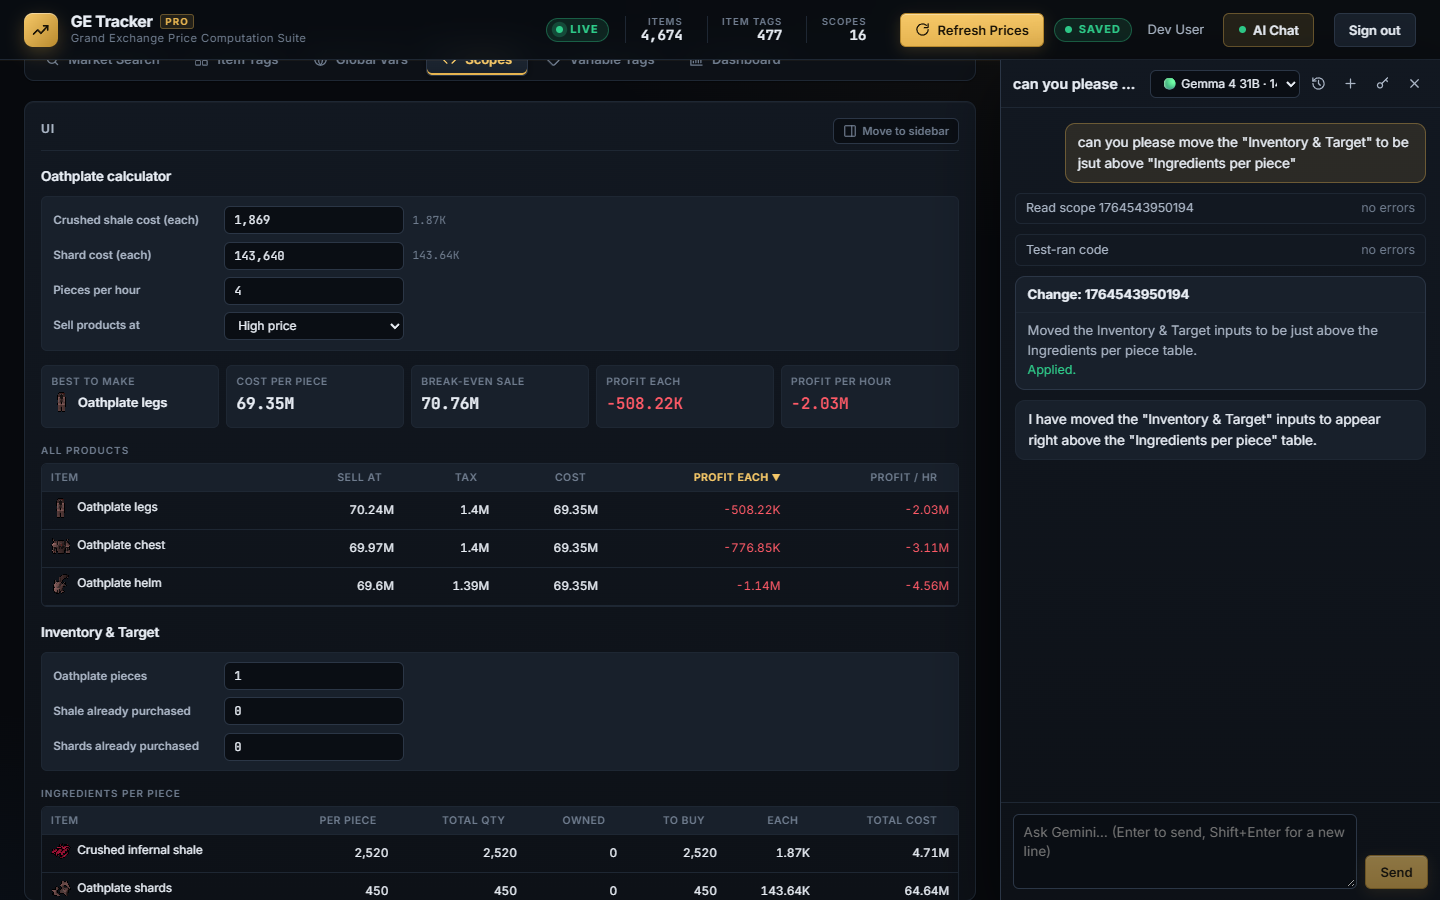
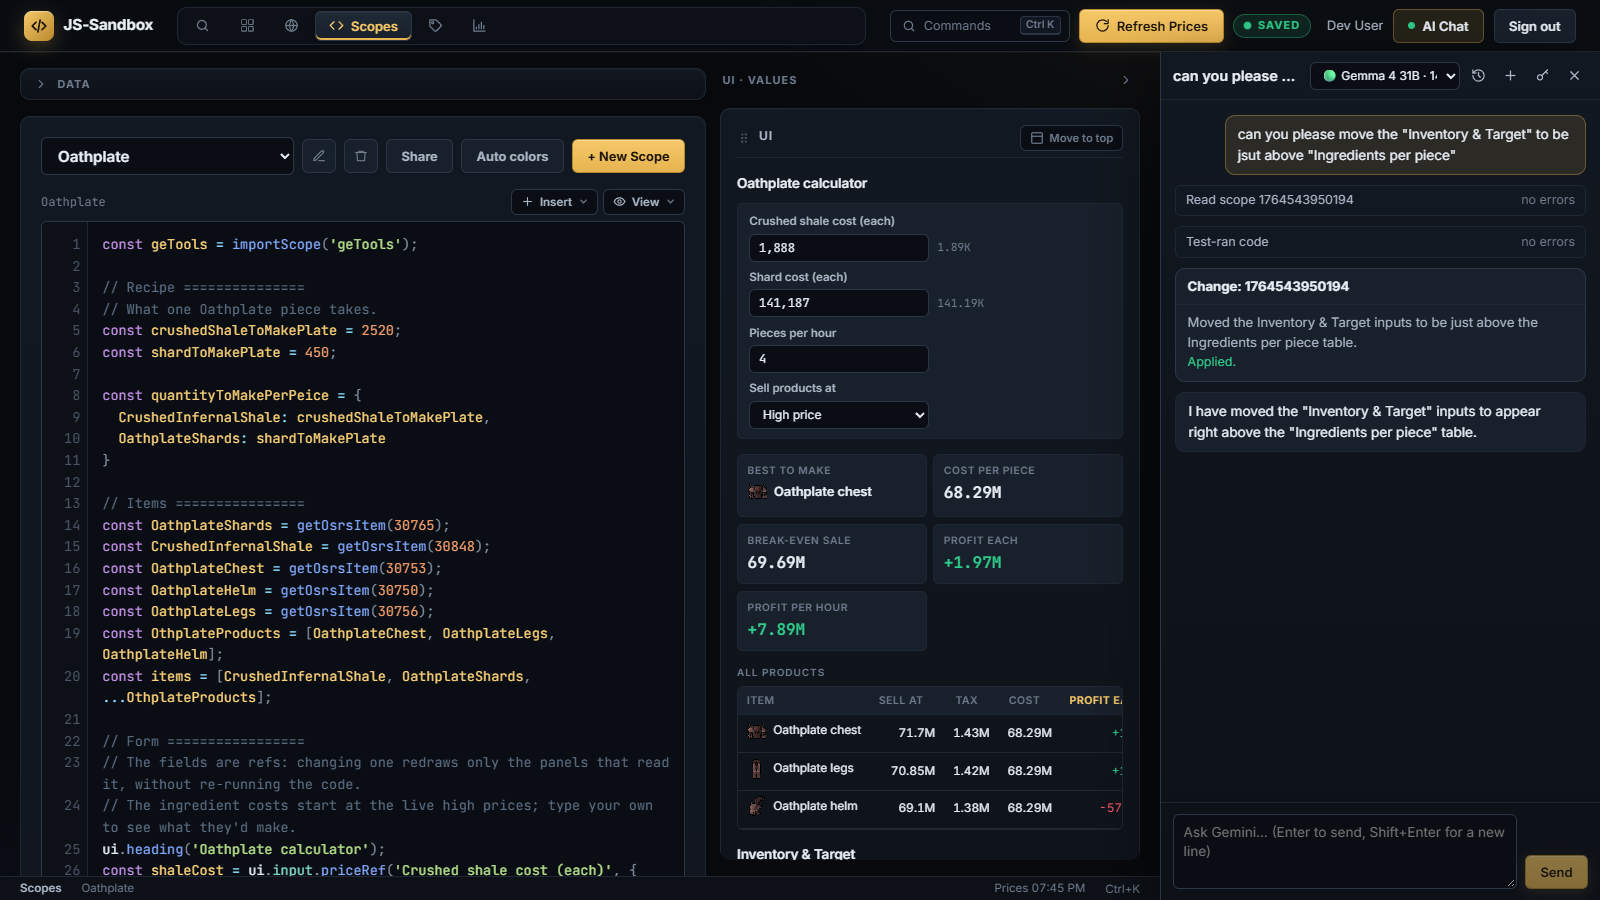
docs

diff --git a/public/css/styles.css b/public/css/styles.css
@@ -1244,10 +1244,13 @@ kbd {
 /* Wide screens: the data explorer (Scopes only), the editor and the sidebar side by side, with a
    draggable splitter between each pair; the UI section can take a full-width band on top. The
    pane widths come from workbenchStyle and are capped so the editor always keeps some room.
-   Rows have no gap, so an empty top band takes no space; the band gets its own margin instead. */
+   Rows have no gap, so an empty top band takes no space; the band gets its own margin instead.
+   The layout follows the work area's width (a container query on .main-layout), not the
+   window's, so opening the AI chat drawer narrows it too. */
+.main-layout { container: workarea / inline-size; }
 .code-tab-layout {
-    --explorer-col: min(var(--explorer-w, 400px), 30vw);
-    --side-col: min(var(--side-w, 420px), 42vw);
+    --explorer-col: min(var(--explorer-w, 400px), 30cqi);
+    --side-col: min(var(--side-w, 420px), 42cqi);
     display: grid;
     grid-template-columns: minmax(0, 1fr) 14px var(--side-col);
     grid-template-areas:
@@ -2694,8 +2697,8 @@ body.is-dragging-ui, body.is-dragging-ui * { cursor: grabbing !important; user-s
 /* ==========================================================================
    Responsive
    ========================================================================== */
-/* Medium screens: the data explorer moves above the editor, beside the sidebar. */
-@media (max-width: 1500px) {
+/* A medium work area: the data explorer moves above the editor, beside the sidebar. */
+@container workarea (max-width: 1460px) {
     .code-tab-layout.has-explorer {
         grid-template-columns: minmax(0, 1fr) 14px var(--side-col);
         grid-template-areas:
@@ -2713,7 +2716,8 @@ body.is-dragging-ui, body.is-dragging-ui * { cursor: grabbing !important; user-s
     .tab-label { display: none; }
     .tab-btn.active .tab-label { display: inline; }
 }
-@media (max-width: 1100px) {
+/* A narrow work area: every pane stacked. */
+@container workarea (max-width: 1060px) {
     .market-layout { grid-template-columns: minmax(0, 1fr); }
     .code-tab-layout, .code-tab-layout.has-explorer {
         grid-template-columns: minmax(0, 1fr);
@@ -2724,6 +2728,8 @@ body.is-dragging-ui, body.is-dragging-ui * { cursor: grabbing !important; user-s
     .code-sidebar { margin-top: 1rem; }
     .code-sidebar .pane-rail { flex-direction: row; min-height: 0; padding: 0.5rem 0.8rem; }
     .code-sidebar .pane-rail-label { writing-mode: horizontal-tb; }
+}
+@media (max-width: 1100px) {
     .palette-btn-label, .palette-btn kbd, .refresh-label { display: none; }
 }
 @media (max-width: 900px) {

diff --git a/docs/README.md b/docs/README.md
@@ -8,24 +8,35 @@ app.
 `images/` holds the screenshots the README shows. They are all of the dev user's **Oathplate**
 scope, a calculator for the profit on making Oathplate armour.
 
+### `images/workbench.png`
+
+The Scopes tab's workbench: the Data panel, the editor with the caret on a variable (its
+occurrences marked and the occurrence bar at the bottom), and the sidebar with the UI section
+docked above Values.
+
+![The Scopes tab: Data panel, code editor and sidebar](images/workbench.png)
+
 ### `images/ui-panel.png`
 
-The scope's UI panel: a form, stat tiles and tables built by the scope's code.
+The scope's UI panel docked full width above the editor: a form, stat tiles and tables built by
+the scope's code.
 
 ![The Oathplate scope's UI panel](images/ui-panel.png)
 
 ### `images/code-editor.png`
 
-The scope's code in the editor.
+The scope's code in the editor, with the caret on `shaleCost`: its occurrences are marked and
+the occurrence bar shows its value and steps through them.
 
 ![The Oathplate scope's code in the editor](images/code-editor.png)
 
 ### `images/ai-chat.png`
 
-The AI chat drawer after it changed the scope.
+The AI chat drawer after it changed the scope, with the Data panel collapsed.
 
 ![The AI chat drawer after changing the Oathplate scope](images/ai-chat.png)
 
 To retake them, start the app in dev mode with `DEV_LOGIN=true`, sign in at
 `http://localhost:3000/auth/dev`, open the Oathplate scope on the Scopes tab, and capture at a
-1440×900 window.
+1600×900 window. That's wide enough for the Data panel, editor and sidebar to sit side by side;
+narrower windows stack the Data panel above the editor.

diff --git a/README.md b/README.md
@@ -8,6 +8,15 @@ they follow them across devices. A scope can be shared read-only by link.
 
 The screenshots below are all of one scope: an Oathplate armour profit calculator.
 
+### Workbench
+
+The Scopes tab is a work area: a Data panel for finding items, the code editor, and a sidebar
+with the scope's UI and values. Panels resize by dragging the splitters between them and
+collapse to a rail (Ctrl+B / Ctrl+Alt+B), and the UI section is dragged by its header to dock it
+full width above the editor or in the sidebar. Ctrl+K opens a command palette.
+
+![The Scopes tab: Data panel, code editor and sidebar](docs/images/workbench.png)
+
 ### Scope UI
 
 A scope's code can build its own UI: forms, stat tiles and tables that update as prices and
@@ -18,7 +27,9 @@ inputs change.
 ### Code editor
 
 Each scope is JavaScript with built-in functions for looking up items and their live prices.
-The editor highlights variables, and item lookups take their item tag's colour.
+The editor highlights variables, and item lookups take their item tag's colour. With the caret
+on a variable, its occurrences are marked and a bar at the bottom steps through them (F7 /
+Shift+F7) or jumps to its declaration (F12).
 
 ![The Oathplate scope's code in the editor](docs/images/code-editor.png)
 
